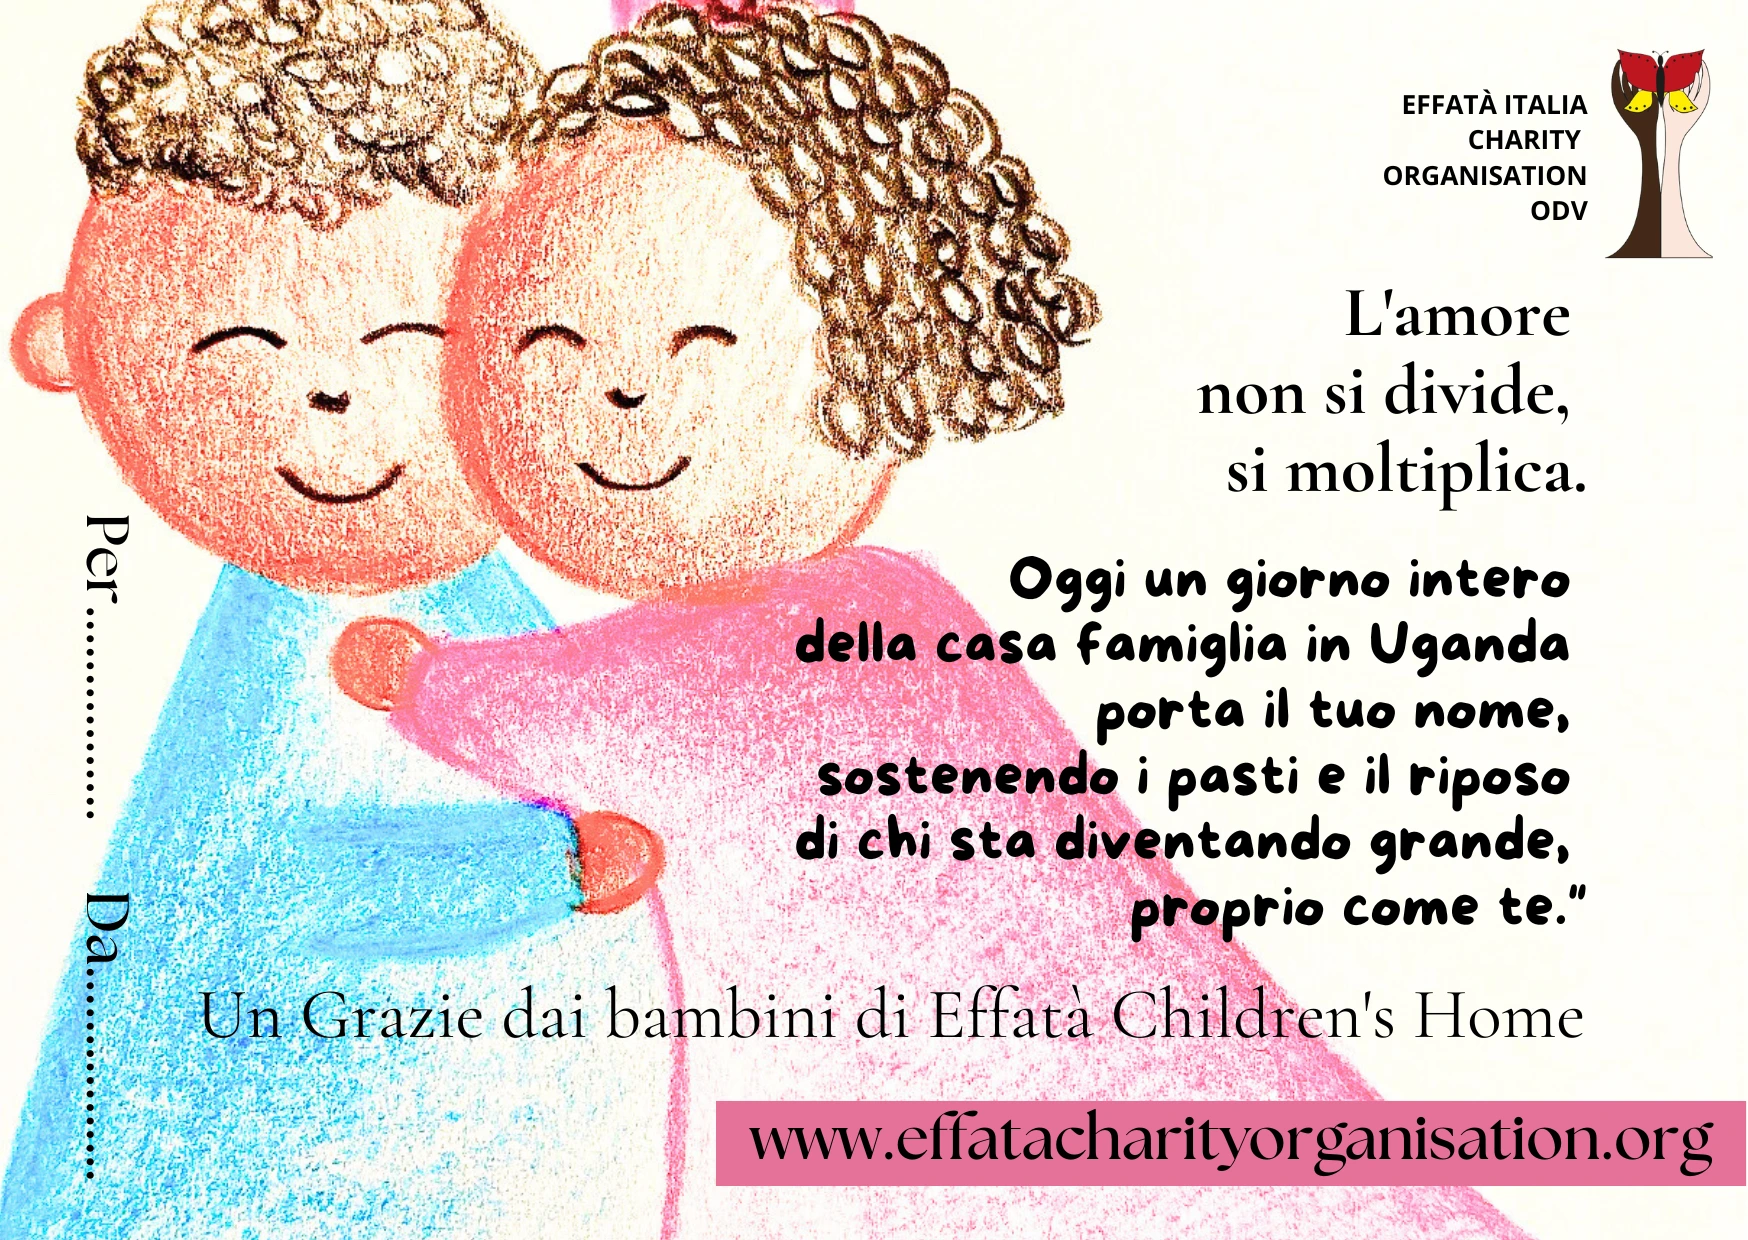
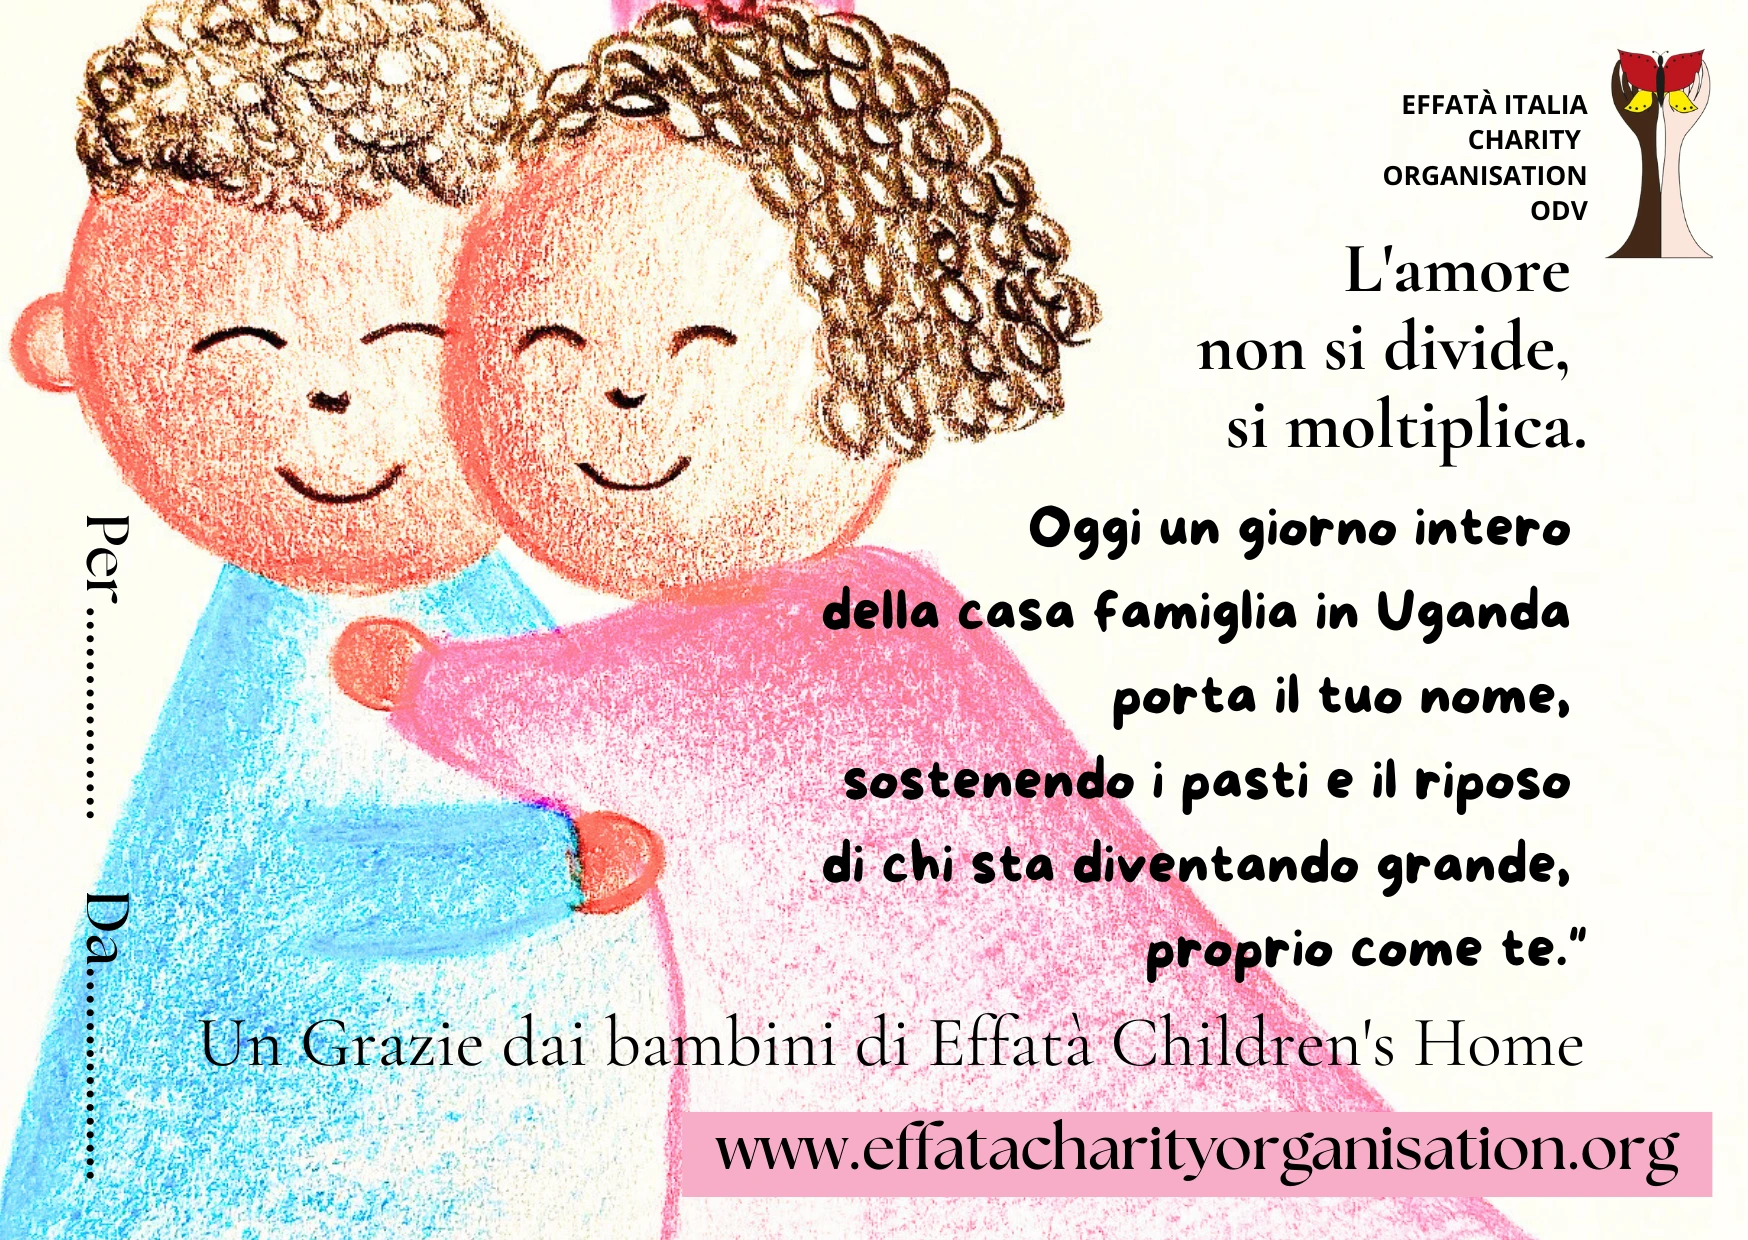
Update gift card images and add cards 4-5

Changed region(s): [[0.0927, 0.1839, 0.9268, 0.8581], [0.3707, 0.8887, 1.0, 0.9806]]

diff --git a/public/index.html b/public/index.html
@@ -280,6 +280,16 @@
                                 <span class="giftcard-check">&#10003;</span>
                                 <button type="button" class="giftcard-zoom-btn" title="Ingrandisci">&#128269;</button>
                             </div>
+                            <div class="giftcard-option" data-card="card4">
+                                <img src="/images/gift_card/4.webp" alt="Gift Card 4">
+                                <span class="giftcard-check">&#10003;</span>
+                                <button type="button" class="giftcard-zoom-btn" title="Ingrandisci">&#128269;</button>
+                            </div>
+                            <div class="giftcard-option" data-card="card5">
+                                <img src="/images/gift_card/5.webp" alt="Gift Card 5">
+                                <span class="giftcard-check">&#10003;</span>
+                                <button type="button" class="giftcard-zoom-btn" title="Ingrandisci">&#128269;</button>
+                            </div>
                         </div>
                     </div>
 
@@ -358,6 +368,8 @@
                     <img src="/images/gift_card/1.webp" alt="Gift Card 1" class="carousel-img active" data-index="0">
                     <img src="/images/gift_card/2.webp" alt="Gift Card 2" class="carousel-img" data-index="1">
                     <img src="/images/gift_card/3.webp" alt="Gift Card 3" class="carousel-img" data-index="2">
+                    <img src="/images/gift_card/4.webp" alt="Gift Card 4" class="carousel-img" data-index="3">
+                    <img src="/images/gift_card/5.webp" alt="Gift Card 5" class="carousel-img" data-index="4">
                 </div>
                 <button class="carousel-btn carousel-next" id="carouselNext" aria-label="Successiva">&#8250;</button>
             </div>
@@ -365,6 +377,8 @@
                 <span class="carousel-dot active" data-index="0"></span>
                 <span class="carousel-dot" data-index="1"></span>
                 <span class="carousel-dot" data-index="2"></span>
+                <span class="carousel-dot" data-index="3"></span>
+                <span class="carousel-dot" data-index="4"></span>
             </div>
             <p class="carousel-hint">Scorri per vedere tutte le gift card</p>
         </div>
